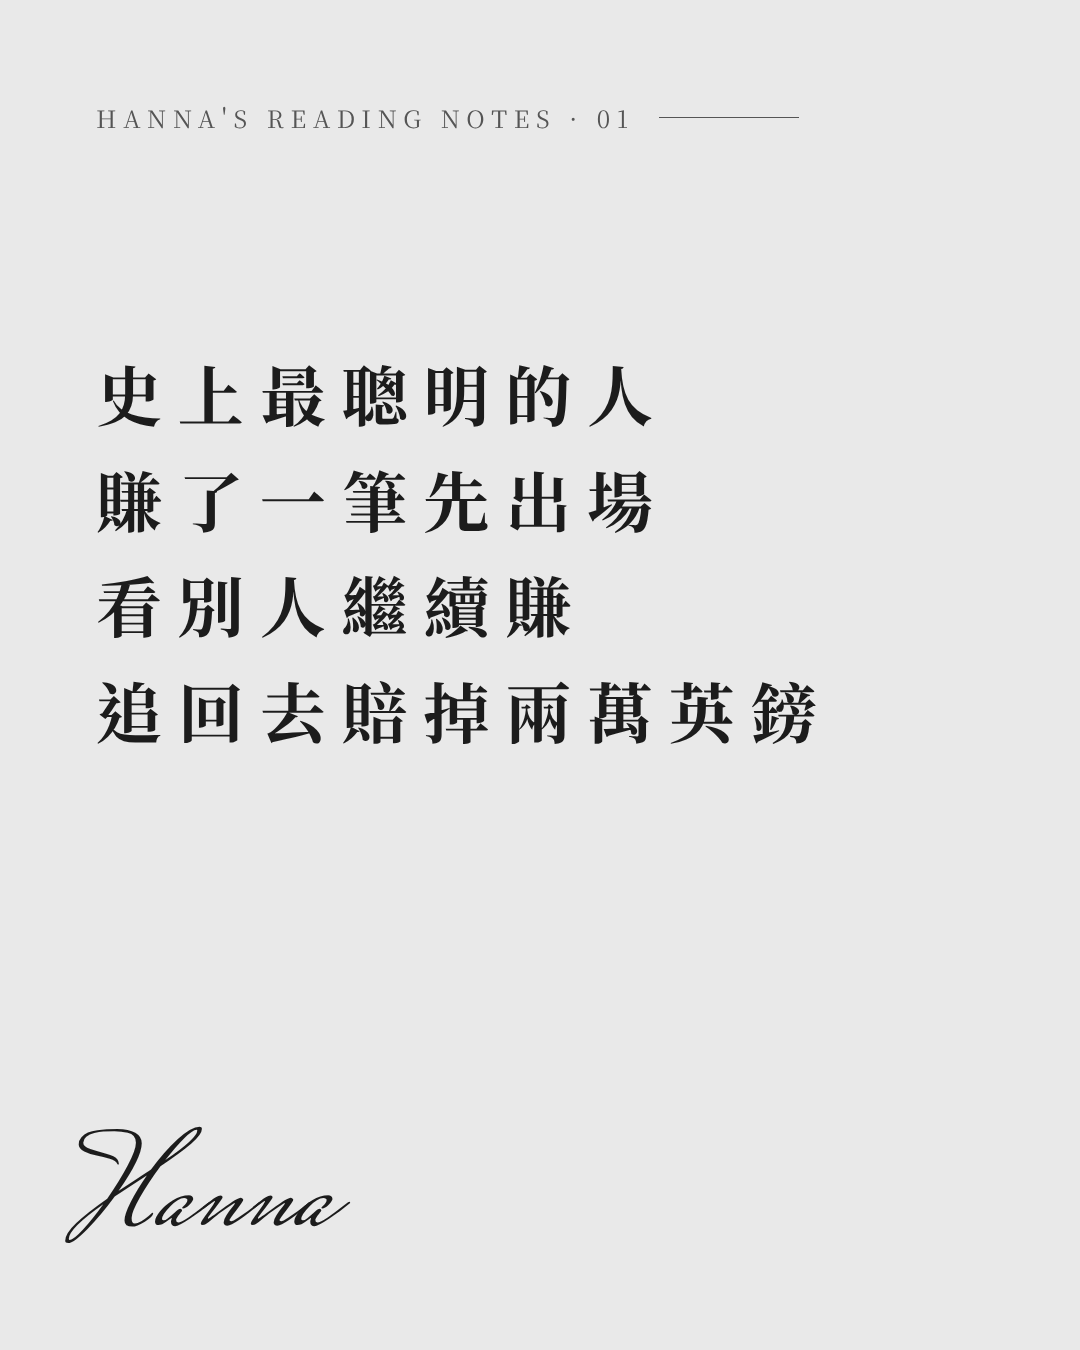
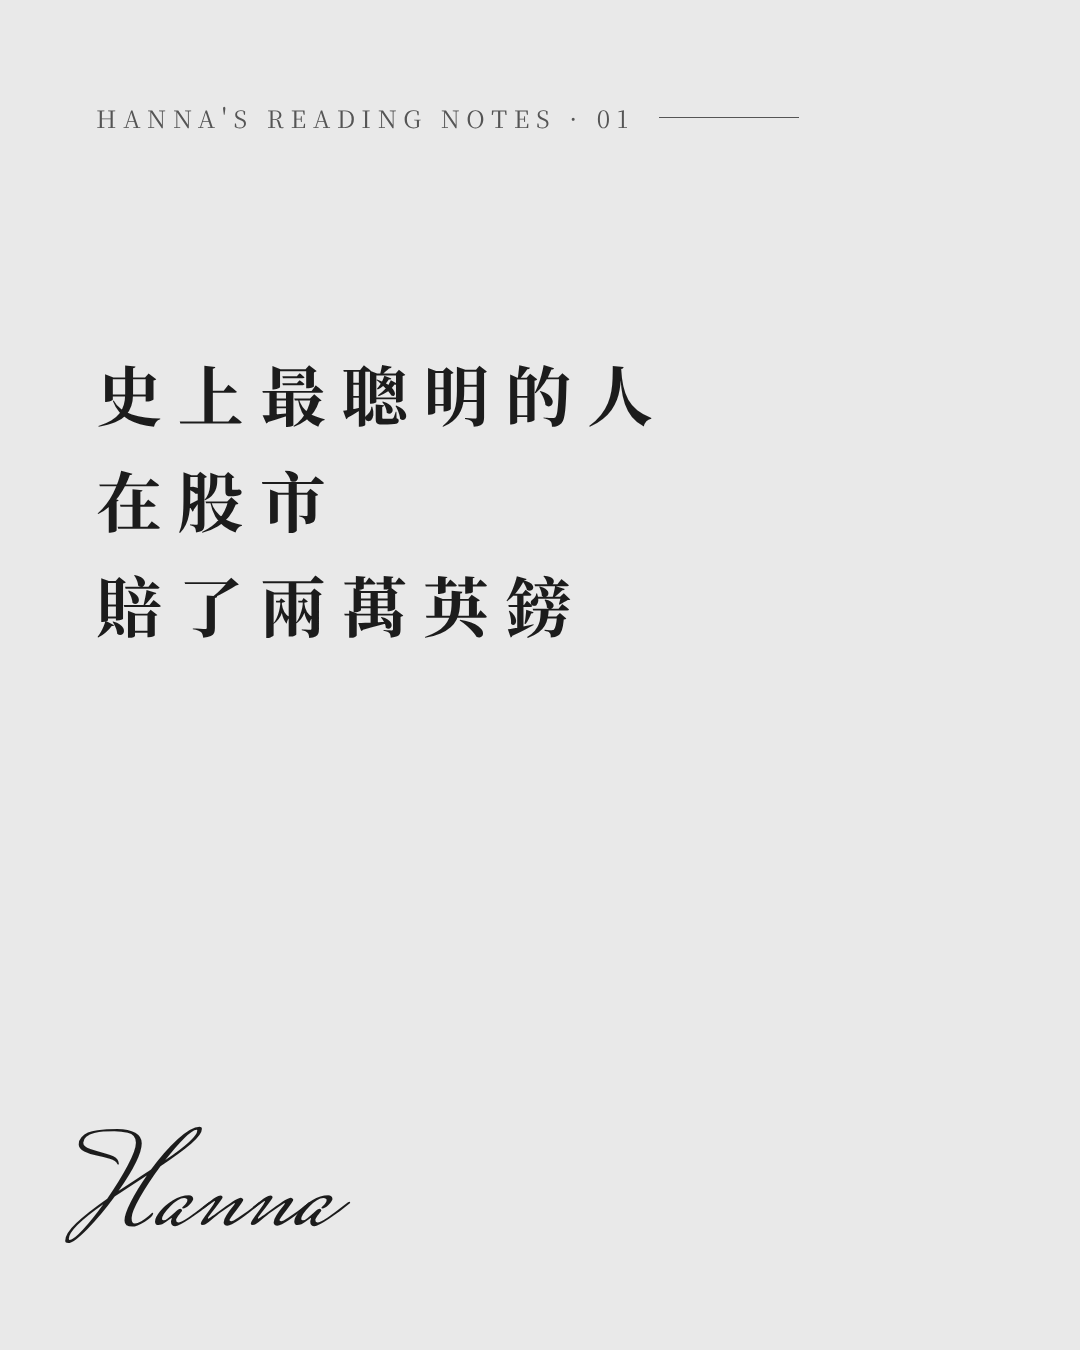
錯失恐懼輪播：封面標題簡化
Claude-Session: https://claude.ai/code/session_01AFjNkU8XspDCm6xvkskaQj

Changed region(s): [[0.0917, 0.3422, 0.6111, 0.56], [0.55, 0.4978, 0.7639, 0.56]]

diff --git a/IP經營/輪播_錯失恐懼/slides.html b/IP經營/輪播_錯失恐懼/slides.html
@@ -52,7 +52,7 @@
 <body>
 
 <section class="slide cover">
-  <h1>史上最聰明的人<br>賺了一筆先出場<br>看別人繼續賺<br>追回去賠掉兩萬英鎊</h1>
+  <h1>史上最聰明的人<br>在股市<br>賠了兩萬英鎊</h1>
   <div class="person"></div>
   <div class="sign">Hanna</div>
 </section>

diff --git a/IP經營/輪播貼文_錯失恐懼.md b/IP經營/輪播貼文_錯失恐懼.md
@@ -7,9 +7,7 @@
 ## 貼文說明文字（Caption）
 
 史上最聰明的人之一，
-賺了一筆先出場，
-看別人繼續賺，又追了回去，
-最後賠掉大約 2 萬英鎊。
+在股市賠了大約 2 萬英鎊。
 
 1720 年，英國最熱門的股票是南海公司。
 半年內，股價從 100 多英鎊，
